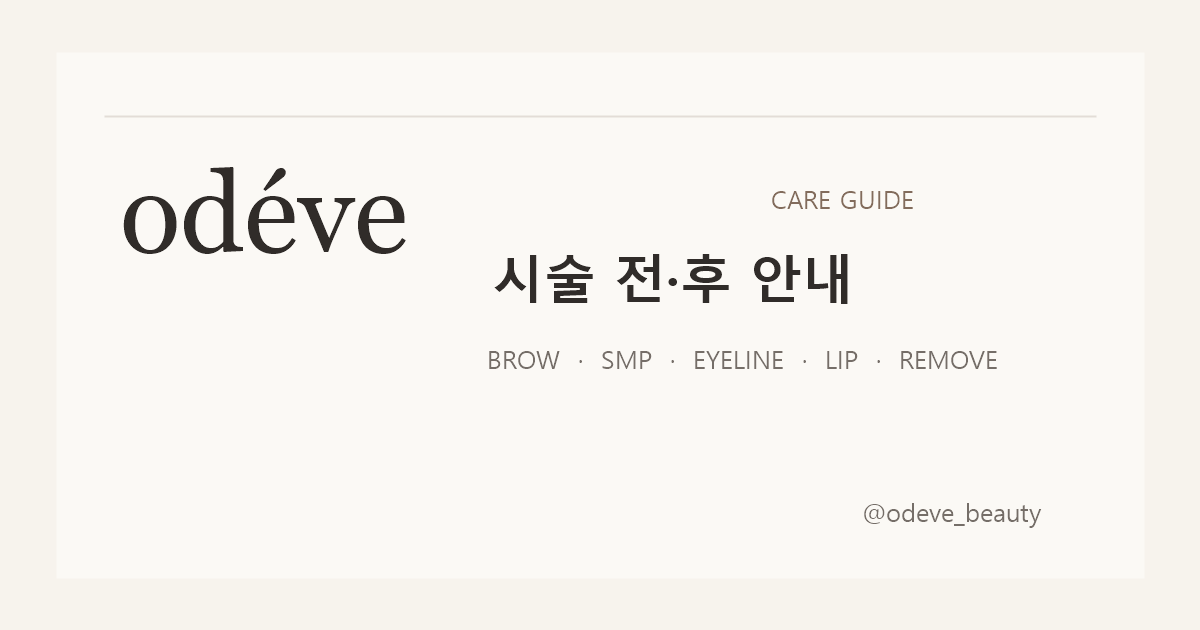
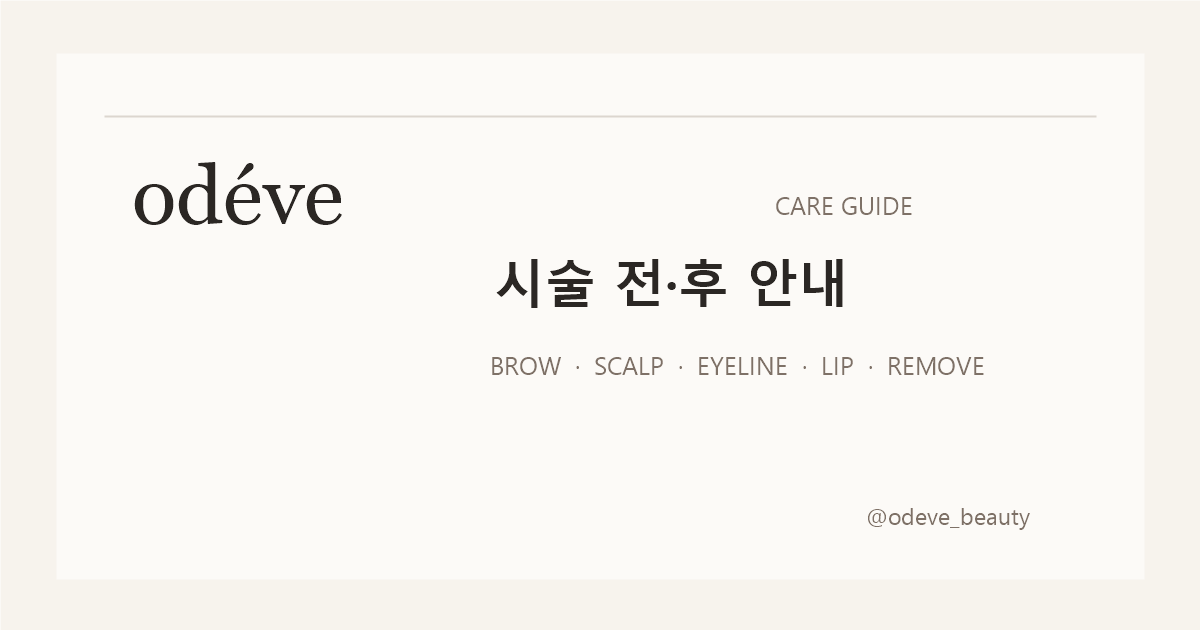
content: remove SMP terminology

diff --git a/src/content/categories.ts b/src/content/categories.ts
@@ -51,9 +51,9 @@ export const categories: Category[] = [
     ],
   },
   {
-    slug: 'smp',
-    name: '두피 SMP',
-    englishName: 'Scalp micropigmentation',
+    slug: 'scalp',
+    name: '두피',
+    englishName: 'Scalp',
     description: '두피 시술의 착색과 회복을 위한 관리',
     accent: '02',
     sections: [
@@ -61,13 +61,13 @@ export const categories: Category[] = [
         id: 'before',
         label: '시술 전',
         eyebrow: 'Before care',
-        images: [{ src: '/images/smp-before.png', alt: '두피 SMP 시술 전 안내사항', aspect: 'square' }],
+        images: [{ src: '/images/scalp-before.png', alt: '두피 시술 전 안내사항', aspect: 'square' }],
       },
       {
         id: 'after',
         label: '시술 후',
         eyebrow: 'After care',
-        images: [{ src: '/images/smp-after.png', alt: '두피 SMP 시술 후 안내사항', aspect: 'square' }],
+        images: [{ src: '/images/scalp-after.png', alt: '두피 시술 후 안내사항', aspect: 'square' }],
       },
     ],
   },

diff --git a/src/App.test.tsx b/src/App.test.tsx
@@ -17,7 +17,7 @@ describe('application routes', () => {
 
   it('keeps guide details focused on the original image without repeated Korean copy', () => {
     render(
-      <MemoryRouter initialEntries={['/guide/smp']}>
+      <MemoryRouter initialEntries={['/guide/scalp']}>
         <App />
       </MemoryRouter>,
     )

diff --git a/src/content/categories.test.ts b/src/content/categories.test.ts
@@ -6,7 +6,7 @@ describe('care guide categories', () => {
   it('keeps the five customer-facing categories in display order', () => {
     expect(categories.map((category) => category.slug)).toEqual([
       'brow',
-      'smp',
+      'scalp',
       'eyeline',
       'lip',
       'remove',

diff --git a/docs/superpowers/plans/2026-09-03-odeve-care-guide-implementation.md b/docs/superpowers/plans/2026-09-03-odeve-care-guide-implementation.md
@@ -66,7 +66,7 @@ export default defineConfig({
 
 - [ ] **Step 3: 원본 이미지를 의미 있는 이름으로 복사한다**
 
-`brow-before.png`, `brow-after.png`, `smp-before.png`, `smp-after.png`, `lash-addict.png`, `eyeline-before.png`, `eyeline-after.png`, `lip-before.png`, `lip-after.png`, `lip-balm.jpg`, `lip-healing.jpg`, `lip-result.png`, `remove-before.png`, `remove-after.png`, `remove-ampoule-after.png`로 복사하며 원본 해시와 복사본 해시가 일치하는지 확인한다.
+`brow-before.png`, `brow-after.png`, `scalp-before.png`, `scalp-after.png`, `lash-addict.png`, `eyeline-before.png`, `eyeline-after.png`, `lip-before.png`, `lip-after.png`, `lip-balm.jpg`, `lip-healing.jpg`, `lip-result.png`, `remove-before.png`, `remove-after.png`, `remove-ampoule-after.png`로 복사하며 원본 해시와 복사본 해시가 일치하는지 확인한다.
 
 - [ ] **Step 4: 의존성을 설치하고 빈 앱 빌드를 확인한다**
 
@@ -97,7 +97,7 @@ git commit -m "chore: scaffold responsive care guide"
 
 ```ts
 expect(categories.map((category) => category.slug)).toEqual([
-  'brow', 'smp', 'eyeline', 'lip', 'remove',
+  'brow', 'scalp', 'eyeline', 'lip', 'remove',
 ])
 expect(getCategoryBySlug('lip')?.sections.map((section) => section.id)).toEqual([
   'before', 'after', 'balm', 'healing', 'result',

diff --git a/docs/superpowers/specs/2026-09-03-odeve-care-guide-design.md b/docs/superpowers/specs/2026-09-03-odeve-care-guide-design.md
@@ -18,7 +18,7 @@
 
 - `odéve` 브랜드명과 고객 안내 문구를 표시한다.
 - `CARE GUIDE`, `시술 전·후 안내`, 소개 문구를 모든 화면 크기에서 가운데 정렬한다.
-- 눈썹, 두피 SMP, 아이라인, 입술, 잔흔 제거의 다섯 카테고리를 카드로 제공한다.
+- 눈썹, 두피, 아이라인, 입술, 잔흔 제거의 다섯 카테고리를 카드로 제공한다.
 - 각 카드는 간단한 영문 표기와 포함된 안내 종류를 보여준다.
 - 320px 수준의 소형 스마트폰부터 대형 스마트폰, 폴더블, 태블릿, 데스크톱까지 고정 기기명이 아닌 가용 화면 너비를 기준으로 자연스럽게 재배치한다.
 - 홈의 다섯 카테고리는 첫 줄 3개, 둘째 줄 2개를 가운데 정렬하여 한 화면에서 바로 선택할 수 있게 한다.
@@ -43,7 +43,7 @@
 ## 콘텐츠 매핑
 
 - 눈썹: `KakaoTalk_20260903_143212967.png`, `_01.png`
-- 두피 SMP: `_03.png`, `_02.png`
+- 두피: `_03.png`, `_02.png`
 - 래쉬애딕트: `_04.png`를 홈의 별도 카테고리로 만들지 않고 눈썹 상세의 추가 안내로 제공
 - 아이라인: `_05.png`, `_06.png`
 - 입술: `_08.png`, `_11.png`; 추가 자료 `_07.jpg`, `_09.jpg`, `_10.png`

diff --git a/docs/qa/responsive-qa.md b/docs/qa/responsive-qa.md
@@ -16,7 +16,7 @@
 | 320×568 | 홈 | 3개+2개 메뉴가 첫 화면 안에 표시, 가로 스크롤 없음 |
 | 360×800 | 입술 상세 | 탭 가로 스크롤, 원본 이미지 비율 유지, 가로 스크롤 없음 |
 | 390×844 | 홈 | 3개+2개 메뉴가 첫 화면 안에 표시, 전체 터치 영역 정상 |
-| 390×844 | 두피 SMP 상세 | 제목 아래 설명과 반복 한글 안내 제목 제거, 영문 구분 및 원본 이미지 정상 |
+| 390×844 | 두피 상세 | 제목 아래 설명과 반복 한글 안내 제목 제거, 영문 구분 및 안내 이미지 정상 |
 | 430×932 | 입술 상세 | 탭 전환, 안내 이미지 및 확대 버튼 정상 |
 | 768×1024 | 홈 | 간결한 3개+2개 메뉴, 영문명 잘림 없음 |
 | 1024×1366 | 입술 회복 과정 | 좌측 탐색·우측 세로 이미지 배치 정상 |
@@ -29,7 +29,6 @@
 - `screenshots/home-320x568.png`
 - `screenshots/lip-360x800.png`
 - `screenshots/home-390x844.png`
-- `screenshots/smp-390x844.png`
 - `screenshots/lip-430x932.png`
 - `screenshots/home-768x1024.png`
 - `screenshots/lip-1024x1366.png`
